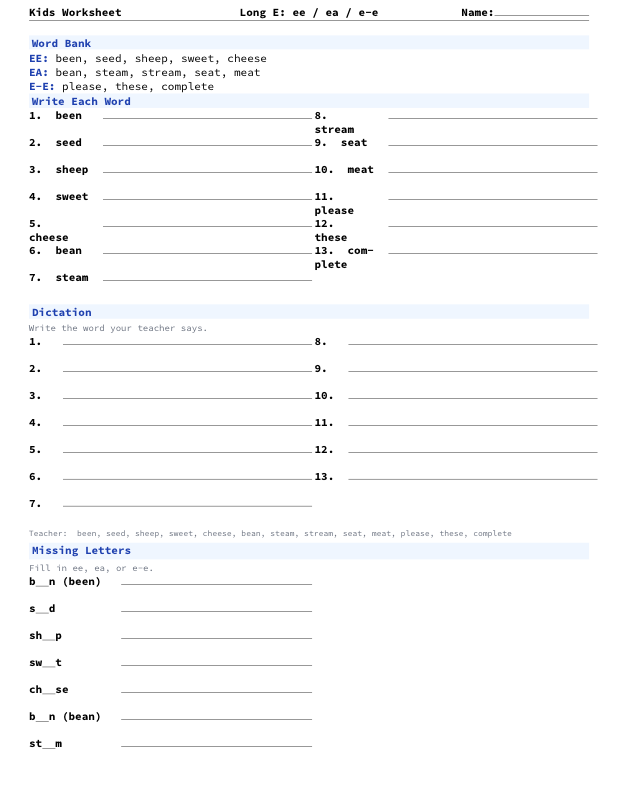
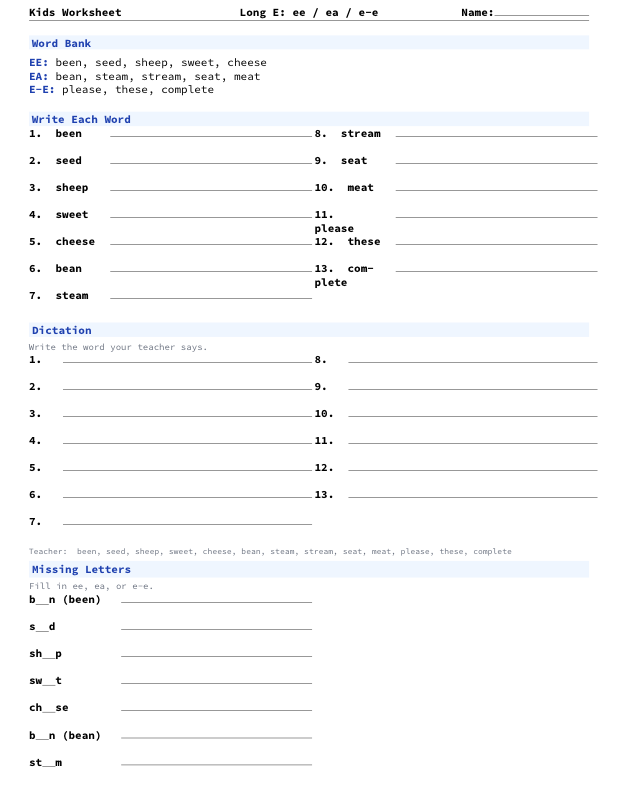
Refactor word-test-long-e.tex - cleaner reusable code

diff --git a/src/word-test-long-e.tex b/src/word-test-long-e.tex
@@ -8,7 +8,6 @@
 \usepackage{array}
 \usepackage{xcolor}
 \usepackage{enumitem}
-\usepackage{tabularx}
 
 \renewcommand{\familydefault}{\ttdefault}
 \setlength{\parindent}{0pt}
@@ -18,15 +17,10 @@
 \setlength{\columnsep}{0.15in}
 \raggedcolumns
 
-% Colors
 \definecolor{P}{HTML}{1E40AF}
 \definecolor{L}{HTML}{EFF6FF}
 \definecolor{G}{HTML}{6B7280}
 
-% Row height
-\newlength{\R}\setlength{\R}{0.22in}
-
-% Header
 \pagestyle{fancy}
 \fancyhf{}
 \fancyhead[L]{\textbf{Kids Worksheet}}
@@ -36,123 +30,113 @@
 \setlength{\headheight}{13pt}
 \setlength{\headsep}{0.2in}
 
-% Commands
+\newlength{\RowGap}\setlength{\RowGap}{0.22in}
+
 \newcommand{\Sec}[1]{\vspace{0.06in}\noindent\colorbox{L}{\parbox{\dimexpr\linewidth-2\fboxsep}{\textcolor{P}{\textbf{#1}}}}\par\vspace{0.04in}}
-\newcommand{\N}[1]{\textcolor{G}{\footnotesize #1}\par\vspace{0.02in}}
-\newcommand{\Li}[1]{\rule{#1}{0.4pt}}
-\newcommand{\W}[1]{\textbf{#1} & \Li{\linewidth}\\[\R]}
-\newcommand{\Num}[1]{\textbf{#1.} & \Li{\linewidth}\\[\R]}
-\newcommand{\WT}[1]{\renewcommand{\arraystretch}{0.8}\begin{tabular}{@{}p{0.85in}p{\dimexpr\linewidth-0.9in}@{}}#1\end{tabular}}
-\newcommand{\NT}[1]{\renewcommand{\arraystretch}{0.8}\begin{tabular}{@{}p{0.3in}p{\dimexpr\linewidth-0.35in}@{}}#1\end{tabular}}
-\newcommand{\B}{\,\fbox{\rule{0pt}{0.13in}\rule{0.12in}{0pt}}\,}
+\newcommand{\Note}[1]{\textcolor{G}{\footnotesize #1}\par\vspace{0.02in}}
+\newcommand{\Line}[1]{\rule{#1}{0.4pt}}
 \newcommand{\Blank}{\underline{\hspace{0.18in}}}
-\newcommand{\BX}[2]{\textbf{#1} #2\par\vspace{0.03in}}
-\newcommand{\Words}{been, seed, sheep, sweet, cheese, bean, steam, stream, seat, meat, please, these, complete}
+\newcommand{\LBox}{\,\fbox{\rule{0pt}{0.13in}\rule{0.12in}{0pt}}\,}
+
+\newcommand{\Tbl}[2]{\renewcommand{\arraystretch}{0.8}\begin{tabular}{@{}p{#1}p{\dimexpr\linewidth-#1-0.05in}@{}}#2\end{tabular}}
+\newcommand{\Row}[1]{\textbf{#1} & \Line{\linewidth}\\[\RowGap]}
+
+\newcommand{\WordList}{been, seed, sheep, sweet, cheese, bean, steam, stream, seat, meat, please, these, complete}
 
 \begin{document}
 
-% ==================== PAGE 1 ====================
 \Sec{Word Bank}
+\vspace{0.05in}
 \textcolor{P}{\textbf{EE:}} been, seed, sheep, sweet, cheese\\
 \textcolor{P}{\textbf{EA:}} bean, steam, stream, seat, meat\\
 \textcolor{P}{\textbf{E-E:}} please, these, complete
 
-\vspace{-0.05in}
+\vspace{0.15in}
 \Sec{Write Each Word}
 \begin{multicols}{2}
-\WT{\W{1. been}\W{2. seed}\W{3. sheep}\W{4. sweet}\W{5. cheese}\W{6. bean}\W{7. steam}}
+\Tbl{0.95in}{\Row{1. been}\Row{2. seed}\Row{3. sheep}\Row{4. sweet}\Row{5. cheese}\Row{6. bean}\Row{7. steam}}
 \columnbreak
-\WT{\W{8. stream}\W{9. seat}\W{10. meat}\W{11. please}\W{12. these}\W{13. complete}}
+\Tbl{0.95in}{\Row{8. stream}\Row{9. seat}\Row{10. meat}\Row{11. please}\Row{12. these}\Row{13. complete}}
 \end{multicols}
 
-\Sec{Dictation}\N{Write the word your teacher says.}
+\Sec{Dictation}
+\Note{Write the word your teacher says.}
 \begin{multicols}{2}
-\NT{\Num{1}\Num{2}\Num{3}\Num{4}\Num{5}\Num{6}\Num{7}}
+\Tbl{0.3in}{\Row{1.}\Row{2.}\Row{3.}\Row{4.}\Row{5.}\Row{6.}\Row{7.}}
 \columnbreak
-\NT{\Num{8}\Num{9}\Num{10}\Num{11}\Num{12}\Num{13}}
+\Tbl{0.3in}{\Row{8.}\Row{9.}\Row{10.}\Row{11.}\Row{12.}\Row{13.}}
 \end{multicols}
-\textcolor{G}{\scriptsize Teacher: \Words}
+\textcolor{G}{\scriptsize Teacher: \WordList}
 
-\Sec{Missing Letters}\N{Fill in ee, ea, or e-e.}
+\Sec{Missing Letters}
+\Note{Fill in ee, ea, or e-e.}
 \begin{multicols}{2}
-\renewcommand{\arraystretch}{0.8}
-\begin{tabular}{@{}p{1.1in}p{\dimexpr\linewidth-1.15in}@{}}
-\textbf{b\Blank n (been)} & \Li{\linewidth}\\[\R]
-\textbf{s\Blank d} & \Li{\linewidth}\\[\R]
-\textbf{sh\Blank p} & \Li{\linewidth}\\[\R]
-\textbf{sw\Blank t} & \Li{\linewidth}\\[\R]
-\textbf{ch\Blank se} & \Li{\linewidth}\\[\R]
-\textbf{b\Blank n (bean)} & \Li{\linewidth}\\[\R]
-\textbf{st\Blank m} & \Li{\linewidth}\\[\R]
-\end{tabular}
+\Tbl{1.1in}{\Row{b\Blank n (been)}\Row{s\Blank d}\Row{sh\Blank p}\Row{sw\Blank t}\Row{ch\Blank se}\Row{b\Blank n (bean)}\Row{st\Blank m}}
 \columnbreak
-\begin{tabular}{@{}p{1.1in}p{\dimexpr\linewidth-1.15in}@{}}
-\textbf{str\Blank m} & \Li{\linewidth}\\[\R]
-\textbf{s\Blank t} & \Li{\linewidth}\\[\R]
-\textbf{m\Blank t} & \Li{\linewidth}\\[\R]
-\textbf{pl\Blank se} & \Li{\linewidth}\\[\R]
-\textbf{th\Blank se} & \Li{\linewidth}\\[\R]
-\textbf{compl\Blank te} & \Li{\linewidth}\\[\R]
-\end{tabular}
+\Tbl{1.1in}{\Row{str\Blank m}\Row{s\Blank t}\Row{m\Blank t}\Row{pl\Blank se}\Row{th\Blank se}\Row{compl\Blank te}}
 \end{multicols}
 
 \newpage
-% ==================== PAGE 2 ====================
-\Sec{Jumbled Letters}\N{Unscramble the letters.}
+
+\Sec{Jumbled Letters}
+\Note{Unscramble the letters.}
 \begin{multicols}{2}
-\WT{\W{e e b n}\W{e d e s}\W{e p e s h}\W{e t e w s}\W{e s e e c h}\W{a n e b}\W{a m s t e}}
+\Tbl{0.95in}{\Row{e e b n}\Row{e d e s}\Row{e p e s h}\Row{e t e w s}\Row{e s e e c h}\Row{a n e b}\Row{a m s t e}}
 \columnbreak
-\WT{\W{m e r s t a}\W{a t e s}\W{a m t e}\W{e s l a p e}\W{e e s t h}\W{e t e l p m o c}}
+\Tbl{0.95in}{\Row{m e r s t a}\Row{a t e s}\Row{a m t e}\Row{e s l a p e}\Row{e e s t h}\Row{e t e l p m o c}}
 \end{multicols}
 
-\Sec{Sentence Completion}\N{Fill in the blank.}
+\Sec{Sentence Completion}
+\Note{Fill in the blank.}
 \footnotesize
 \renewcommand{\arraystretch}{1.0}
 \begin{tabular}{@{}r@{\,}p{6.6in}@{}}
-1. & I have \Li{1in} to the park.\\[0.1in]
-2. & I planted a \Li{1in} in the garden.\\[0.1in]
-3. & The \Li{1in} says "baa".\\[0.1in]
-4. & This candy is very \Li{1in}.\\[0.1in]
-5. & I like \Li{1in} on pizza.\\[0.1in]
-6. & I ate a green \Li{1in}.\\[0.1in]
-7. & Hot \Li{1in} rose from the pot.\\[0.1in]
-8. & We crossed the \Li{1in}.\\[0.1in]
-9. & Sit on the \Li{1in}.\\[0.1in]
-10. & The dog ate the \Li{1in}.\\[0.1in]
-11. & \Li{1in} pass the salt.\\[0.1in]
-12. & \Li{1in} are my books.\\[0.1in]
-13. & I will \Li{1in} my work.\\[0.1in]
+1. & I have \Line{1in} to the park.\\[0.1in]
+2. & I planted a \Line{1in} in the garden.\\[0.1in]
+3. & The \Line{1in} says "baa".\\[0.1in]
+4. & This candy is very \Line{1in}.\\[0.1in]
+5. & I like \Line{1in} on pizza.\\[0.1in]
+6. & I ate a green \Line{1in}.\\[0.1in]
+7. & Hot \Line{1in} rose from the pot.\\[0.1in]
+8. & We crossed the \Line{1in}.\\[0.1in]
+9. & Sit on the \Line{1in}.\\[0.1in]
+10. & The dog ate the \Line{1in}.\\[0.1in]
+11. & \Line{1in} pass the salt.\\[0.1in]
+12. & \Line{1in} are my books.\\[0.1in]
+13. & I will \Line{1in} my work.\\[0.1in]
 \end{tabular}
 \normalsize
 
-\Sec{Error Correction}\N{Write the correct word.}
+\Sec{Error Correction}
+\Note{Write the correct word.}
 \footnotesize
 \begin{multicols}{2}
 \renewcommand{\arraystretch}{1.0}
 \begin{tabular}{@{}p{1.6in}p{0.9in}@{}}
-I have \textbf{ben} to the zoo. & \Li{0.85in}\\[0.08in]
-I planted a \textbf{seede}. & \Li{0.85in}\\[0.08in]
-The \textbf{shep} is fluffy. & \Li{0.85in}\\[0.08in]
-This cake is \textbf{swet}. & \Li{0.85in}\\[0.08in]
-I like \textbf{chese}. & \Li{0.85in}\\[0.08in]
-I ate a \textbf{beean}. & \Li{0.85in}\\[0.08in]
-Hot \textbf{steem} rose. & \Li{0.85in}\\[0.08in]
+I have \textbf{ben} to the zoo. & \Line{0.85in}\\[0.08in]
+I planted a \textbf{seede}. & \Line{0.85in}\\[0.08in]
+The \textbf{shep} is fluffy. & \Line{0.85in}\\[0.08in]
+This cake is \textbf{swet}. & \Line{0.85in}\\[0.08in]
+I like \textbf{chese}. & \Line{0.85in}\\[0.08in]
+I ate a \textbf{beean}. & \Line{0.85in}\\[0.08in]
+Hot \textbf{steem} rose. & \Line{0.85in}\\[0.08in]
 \end{tabular}
 \columnbreak
 \begin{tabular}{@{}p{1.6in}p{0.9in}@{}}
-We crossed a \textbf{strem}. & \Li{0.85in}\\[0.08in]
-Sit on the \textbf{seet}. & \Li{0.85in}\\[0.08in]
-Dog ate the \textbf{meet}. & \Li{0.85in}\\[0.08in]
-\textbf{Plase} help me. & \Li{0.85in}\\[0.08in]
-\textbf{Thees} are toys. & \Li{0.85in}\\[0.08in]
-I will \textbf{complet} it. & \Li{0.85in}\\[0.08in]
+We crossed a \textbf{strem}. & \Line{0.85in}\\[0.08in]
+Sit on the \textbf{seet}. & \Line{0.85in}\\[0.08in]
+Dog ate the \textbf{meet}. & \Line{0.85in}\\[0.08in]
+\textbf{Plase} help me. & \Line{0.85in}\\[0.08in]
+\textbf{Thees} are toys. & \Line{0.85in}\\[0.08in]
+I will \textbf{complet} it. & \Line{0.85in}\\[0.08in]
 \end{tabular}
 \end{multicols}
 \normalsize
 
 \newpage
-% ==================== PAGE 3 ====================
-\Sec{Multiple Choice}\N{Circle the correct spelling.}
+
+\Sec{Multiple Choice}
+\Note{Circle the correct spelling.}
 \footnotesize
 \begin{multicols}{2}
 \begin{enumerate}
@@ -173,59 +157,57 @@ I will \textbf{complet} it. & \Li{0.85in}\\[0.08in]
 \end{multicols}
 \normalsize
 
-\Sec{Meaning Match}\N{Write the word that matches.}
+\Sec{Meaning Match}
+\Note{Write the word that matches.}
 \footnotesize
 \begin{multicols}{2}
 \renewcommand{\arraystretch}{1.05}
 \begin{tabular}{@{}p{1.8in}p{0.9in}@{}}
-I have visited a place & \Li{0.85in}\\[0.08in]
-A tiny plant starter & \Li{0.85in}\\[0.08in]
-Animal that says "baa" & \Li{0.85in}\\[0.08in]
-Tastes like sugar & \Li{0.85in}\\[0.08in]
-Made from milk & \Li{0.85in}\\[0.08in]
-A small green vegetable & \Li{0.85in}\\[0.08in]
-Hot air from water & \Li{0.85in}\\[0.08in]
+I have visited a place & \Line{0.85in}\\[0.08in]
+A tiny plant starter & \Line{0.85in}\\[0.08in]
+Animal that says "baa" & \Line{0.85in}\\[0.08in]
+Tastes like sugar & \Line{0.85in}\\[0.08in]
+Made from milk & \Line{0.85in}\\[0.08in]
+A small green vegetable & \Line{0.85in}\\[0.08in]
+Hot air from water & \Line{0.85in}\\[0.08in]
 \end{tabular}
 \columnbreak
 \begin{tabular}{@{}p{1.8in}p{0.9in}@{}}
-A small river & \Li{0.85in}\\[0.08in]
-What you sit on & \Li{0.85in}\\[0.08in]
-Food from an animal & \Li{0.85in}\\[0.08in]
-A polite word & \Li{0.85in}\\[0.08in]
-Points to things nearby & \Li{0.85in}\\[0.08in]
-To finish something & \Li{0.85in}\\[0.08in]
+A small river & \Line{0.85in}\\[0.08in]
+What you sit on & \Line{0.85in}\\[0.08in]
+Food from an animal & \Line{0.85in}\\[0.08in]
+A polite word & \Line{0.85in}\\[0.08in]
+Points to things nearby & \Line{0.85in}\\[0.08in]
+To finish something & \Line{0.85in}\\[0.08in]
 \end{tabular}
 \end{multicols}
 \normalsize
 
-\Sec{Word Shapes}\N{Write each word in the boxes.}
+\newcommand{\LBoxWord}[2]{\textbf{#1} #2\par\vspace{0.03in}}
+\Sec{Word Shapes}
+\Note{Write each word in the boxes.}
 \begin{multicols}{2}
-\BX{been}{\B\B\B\B}
-\BX{seed}{\B\B\B\B}
-\BX{sheep}{\B\B\B\B\B}
-\BX{sweet}{\B\B\B\B\B}
-\BX{cheese}{\B\B\B\B\B\B}
-\BX{bean}{\B\B\B\B}
-\BX{steam}{\B\B\B\B\B}
+\LBoxWord{been}{\LBox\LBox\LBox\LBox}
+\LBoxWord{seed}{\LBox\LBox\LBox\LBox}
+\LBoxWord{sheep}{\LBox\LBox\LBox\LBox\LBox}
+\LBoxWord{sweet}{\LBox\LBox\LBox\LBox\LBox}
+\LBoxWord{cheese}{\LBox\LBox\LBox\LBox\LBox\LBox}
+\LBoxWord{bean}{\LBox\LBox\LBox\LBox}
+\LBoxWord{steam}{\LBox\LBox\LBox\LBox\LBox}
 \columnbreak
-\BX{stream}{\B\B\B\B\B\B}
-\BX{seat}{\B\B\B\B}
-\BX{meat}{\B\B\B\B}
-\BX{please}{\B\B\B\B\B\B}
-\BX{these}{\B\B\B\B\B}
-\BX{complete}{\B\B\B\B\B\B\B\B}
+\LBoxWord{stream}{\LBox\LBox\LBox\LBox\LBox\LBox}
+\LBoxWord{seat}{\LBox\LBox\LBox\LBox}
+\LBoxWord{meat}{\LBox\LBox\LBox\LBox}
+\LBoxWord{please}{\LBox\LBox\LBox\LBox\LBox\LBox}
+\LBoxWord{these}{\LBox\LBox\LBox\LBox\LBox}
+\LBoxWord{complete}{\LBox\LBox\LBox\LBox\LBox\LBox\LBox\LBox}
 \end{multicols}
 
-\Sec{Draw and Label}\N{Pick 4 words: sheep, cheese, bean, seat, meat, seed.}
+\newcommand{\DrawBox}{\fbox{\rule{0pt}{0.7in}\rule{0.9in}{0pt}}\par\vspace{0.03in}\Line{0.9in}}
+\Sec{Draw and Label}
+\Note{Pick 4 words: sheep, cheese, bean, seat, meat, seed.}
 \begin{multicols}{4}
-\centering
-\fbox{\rule{0pt}{0.7in}\rule{0.9in}{0pt}}\par\vspace{0.03in}\Li{0.9in}
-\columnbreak
-\fbox{\rule{0pt}{0.7in}\rule{0.9in}{0pt}}\par\vspace{0.03in}\Li{0.9in}
-\columnbreak
-\fbox{\rule{0pt}{0.7in}\rule{0.9in}{0pt}}\par\vspace{0.03in}\Li{0.9in}
-\columnbreak
-\fbox{\rule{0pt}{0.7in}\rule{0.9in}{0pt}}\par\vspace{0.03in}\Li{0.9in}
+\centering\DrawBox\columnbreak\DrawBox\columnbreak\DrawBox\columnbreak\DrawBox
 \end{multicols}
 
 \end{document}
